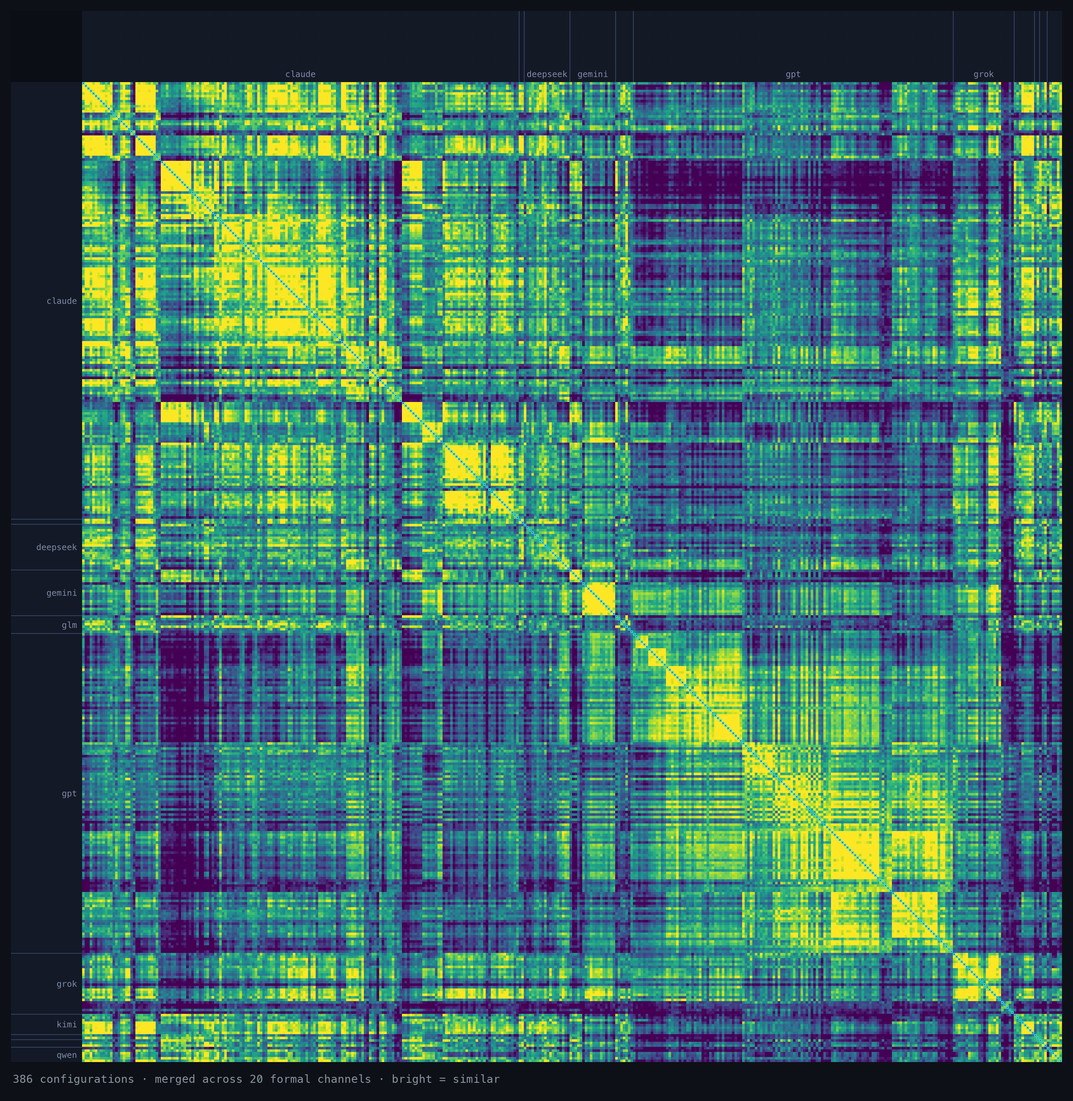
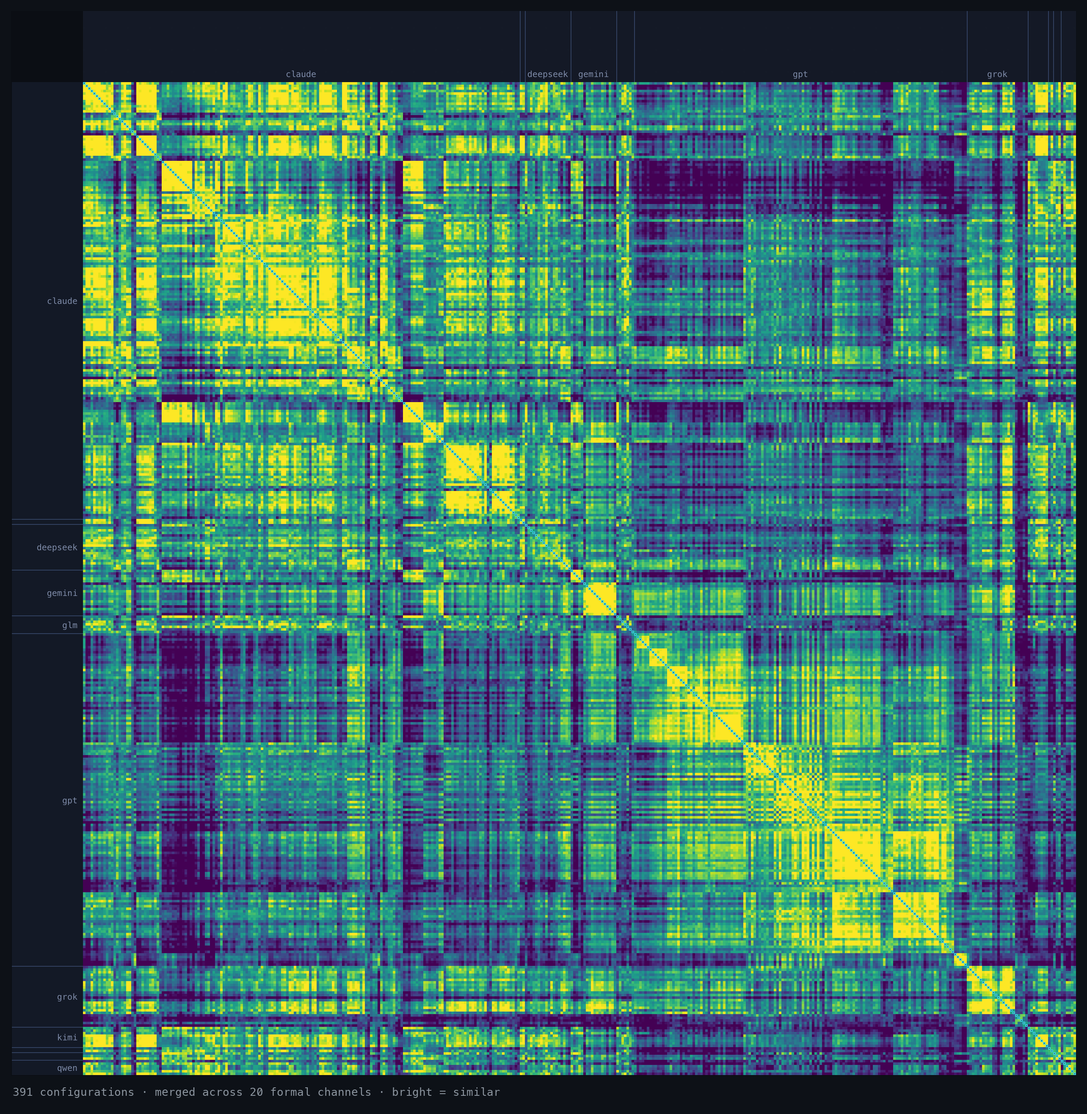
align public artifacts with the 545-config board (gpt-6.1-sol on codex-oauth)

diff --git a/README.zh.md b/README.zh.md
@@ -40,14 +40,14 @@ MIT
 ## 这张地图
 
 <div align="center">
-<img src="docs/matrix.png" alt="config 对 config 相似度热力图(540 config 集的 386 config harness 视图),merged 合并通道" width="82%">
+<img src="docs/matrix.png" alt="config 对 config 相似度热力图(545 config 集的 391 config harness 视图),merged 合并通道" width="82%">
 </div>
 
 每个被测 configuration 对上其余每一个,跨所有通道合并。亮 = 相似,暗 = 分化。对角线上的亮块是各**模型家族**在自我聚类;那条细亮对角线是每个 config 的**自一致性**(一个模型和它*自己*重跑之间有多像)。这里的相似度是**测量,不是质量分** —— 它只刻画收敛,别无其他。
 
 ### 从矩阵里才看得到的
 
-有些东西只在这里现形。下面的数字都是 `P-min` 集上、跨 **20 条正式通道**的 merged **共识分**,计算于集合的 **2026-08 快照** —— 此后板面继续在长(现为 **540 个 configuration**),线上矩阵永远显示当前值。**是信号,不是证明**(单一 prompt 家族、小 N),而且有两个混淆项贯穿始终:低 effort 的卡会向一个通用基线收敛,共享的 harness(opencode / Kiro / Qoder)本身也会带进脚手架。请据此理解。
+有些东西只在这里现形。下面的数字都是 `P-min` 集上、跨 **20 条正式通道**的 merged **共识分**,计算于集合的 **2026-08 快照** —— 此后板面继续在长(现为 **545 个 configuration**),线上矩阵永远显示当前值。**是信号,不是证明**(单一 prompt 家族、小 N),而且有两个混淆项贯穿始终:低 effort 的卡会向一个通用基线收敛,共享的 harness(opencode / Kiro / Qoder)本身也会带进脚手架。请据此理解。
 
 > **这个数是什么。** 通道之间量纲不可比 —— `c-winnow` 的跨对中位数是 0.22,`x-semantics` 是 0.95 —— 所以直接平均,结果基本上等于"谁的方差大就听谁的"。因此每条通道先按它在全集上的 p1–p99 拉伸,再取平均,让每条通道票权相等。拉伸区间是**冻结**在已发布数据里的,所以这里的数字和线上矩阵显示的是同一个数,筛选视图也不会让它变。**共识分不是相似度百分比**:0.50 的意思是"在这个语料里属于中游",不是"像了一半"。
 
@@ -117,8 +117,8 @@ cd site && npm install && npm run dev   # http://localhost:3000
 
 **完整集**可在线浏览,也能作为单个 pack 下载:
 
-- **完整数据集** → <https://weathercard.secondfirst.ai/downloads/wcb-full-dataset-2026-10-14.tar.gz>
-  (~1.4 GB,sha256 `809d45a1…99a294`)。解压出 `2026-07-19--unified/` + `index.json`;把 `WCB_DATA_ROOT` 指向解压目录即可在本地跑整套。
+- **完整数据集** → <https://weathercard.secondfirst.ai/downloads/wcb-full-dataset-2026-10-15.tar.gz>
+  (~1.5 GB,sha256 `f1d61336…5d11a3`)。解压出 `2026-07-19--unified/` + `index.json`;把 `WCB_DATA_ROOT` 指向解压目录即可在本地跑整套。
 
 ## 目录
 

diff --git a/README.md b/README.md
@@ -52,7 +52,7 @@ prompt family, small N). Every one links back to the raw data on the site.
 ## The map
 
 <div align="center">
-<img src="docs/matrix.png" alt="config-vs-config similarity heatmap (386-config harness view of the 540-config set), merged consensus channel" width="82%">
+<img src="docs/matrix.png" alt="config-vs-config similarity heatmap (391-config harness view of the 545-config set), merged consensus channel" width="82%">
 </div>
 
 Every measured configuration against every other, merged across all channels.
@@ -65,7 +65,7 @@ here is a **measurement, not a quality score** — it captures convergence, noth
 
 Some things only show up here. The numbers below are the merged **consensus score**
 on the `P-min` set over the **20 formal channels**, computed on the **2026-08
-snapshot** of the set — the board has grown since (now **540 configurations**), and
+snapshot** of the set — the board has grown since (now **545 configurations**), and
 the live matrix always shows the current values. **Signals, not proof** (single
 prompt family, small N), and two confounds run through all of them: low-effort cards
 converge toward a generic baseline, and a shared harness (opencode / Kiro / Qoder)
@@ -207,8 +207,8 @@ so the repo ships a **flagship subset** — one canonical configuration per fron
 
 The **full set** is browsable live, and downloadable as a single pack:
 
-- **Full dataset** → <https://weathercard.secondfirst.ai/downloads/wcb-full-dataset-2026-10-14.tar.gz>
-  (~1.4 GB, sha256 `809d45a1…99a294`). Extracts to `2026-07-19--unified/` +
+- **Full dataset** → <https://weathercard.secondfirst.ai/downloads/wcb-full-dataset-2026-10-15.tar.gz>
+  (~1.5 GB, sha256 `f1d61336…5d11a3`). Extracts to `2026-07-19--unified/` +
   `index.json`; point `WCB_DATA_ROOT` at the extracted directory to serve the
   whole set locally.
 
